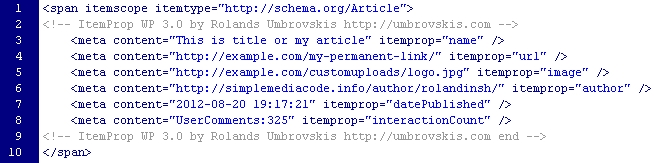
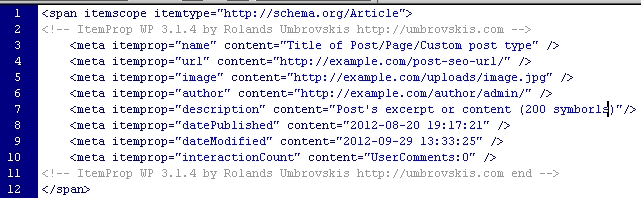
add: 3.2.0 new: admin options
git-svn-id: https://plugins.svn.wordpress.org/itempropwp/trunk@619636 b8457f37-d9ea-0310-8a92-e5e31aec5664

diff --git a/assets/css/itempropwp.css b/assets/css/itempropwp.css
@@ -1,0 +1,13 @@
+@charset "utf-8";
+/*
+ * itempropwp CSS
+ * @since 3.1.4.3
+ * @version 1.0
+*/
+.itempropwp-wrap{
+	padding:0;
+	margin:0;
+	overflow:hidden;
+	display:inline;
+}
+

diff --git a/itempropwp.php b/itempropwp.php
@@ -1,9 +1,9 @@
 <?php 
 /**
 Plugin Name: itemprop WP for SERP/SEO Rich snippets
-Plugin URI: http://simplemediacode.com/wordpress-pugins/itemprop-wp/?utm_source=wordpress&utm_medium=wpplugin&utm_campaign=itempropWP&utm_content=v-3.1.4.1-itempropWP_load_widgets
+Plugin URI: http://simplemediacode.com/wordpress-pugins/itemprop-wp/?utm_source=wordpress&utm_medium=wpplugin&utm_campaign=itempropWP&utm_content=v-3.2.0-itempropWP_load_widgets
 Description: Add human invisible schema.org itemprop code to images
-Version: 3.1.4.1
+Version: 3.2.0
 Requires at least: 3.3
 Tested up to: 3.5
 Author: Rolands Umbrovskis
@@ -14,11 +14,12 @@ License URI: http://simplemediacode.com/license/gpl/
 Copyright (C) 2008-2012, Rolands Umbrovskis - rolands@simplemediacode.com
 
  */
-	define('SMCIPWPV','3.1.4.1'); // location general @since 1.0
+	define('SMCIPWPV','3.2.0'); // location general @since 1.0
 	define('SMCIPWPM',dirname(__FILE__)); // location general @since 1.0
 	define('SMCIPWPF','itempropwp'); // location folder @since 1.0 
 	define('IPWPT',__('itemprop WP for SERP/SEO Rich snippets','itempropwp')); // Name @since 1.1
 	define('SMCIPWPURL', plugin_dir_url(__FILE__)); // Plugin URI @since 1.0
+	define('SMCIPWPDIR',dirname( plugin_basename( __FILE__ ) ));/* @since 3.2.0 */
 	$smcipwp_url = SMCIPWPURL; // @since 3.1 Use of undefined constant SMCIPWPURL - assumed 'SMCIPWPURL' in 
 	$smcipwp_f = SMCIPWPF; // @since 3.1 Use of undefined constant SMCIPWPF - assumed 'SMCIPWPF' in 
 	
@@ -58,10 +59,19 @@ new itempropwp;
 			if(is_admin()):
 				include_once(SMCIPWPM.'/admin/adminipwp.php');
 			endif;
+/*
+ * itempropwp CSS
+ * @since 3.2.0
+ * @version 1.0
+*/
+			if(!is_admin()):	
+				wp_register_style('itempropwp', SMCIPWPURL.'/assets/css/itempropwp.css', array(), SMCIPWPV, 'all');
+				wp_enqueue_style('itempropwp');
+			endif;
 		} 
 		// Initialize
 		public function init() {
-			load_plugin_textdomain( 'itempropwp', false, dirname( plugin_basename( __FILE__ ) ). '/lang/');
+			load_plugin_textdomain( 'itempropwp', false, SMCIPWPDIR. '/lang/');
 			add_filter('the_content', array( 'itempropwp', 'ipwp_the_content_filter' ), 10, 2 ); // Adding context @since 3.0
 			
 		}
@@ -151,7 +161,7 @@ new itempropwp;
 				}
 
 				$content = $content.'
-<span itemscope itemtype="http://schema.org/Article">
+<span itemscope itemtype="http://schema.org/Article" class="itempropwp-wrap">
 <!-- ItemProp WP '.SMCIPWPV.' by Rolands Umbrovskis http://umbrovskis.com -->
 	<meta itemprop="name" content="'.esc_attr($thisipwp_post->post_title).'" />
 	<meta itemprop="url" content="'.esc_url(get_permalink()).'" />'

diff --git a/admin/adminipwp.php b/admin/adminipwp.php
@@ -2,21 +2,21 @@
 /*
  * itempropwp Admin interface
  * @since 3.1.4
- * @version 1.0
+ * @version 1.1.0
 */
 add_action('admin_menu', 'smc_ipwp_admin_menu');
 
 function smc_ipwp_admin_menu() {
 	//create new top-level menu
-	add_menu_page(__('itemprop WP for SERP/SEO Rich snippets','itempropwp'), __('itemprop WP','itempropwp'), 'activate_plugins', 'smcipwp_menu', 'smcipwp_settings');
+	add_menu_page(__('itemprop WP for SERP/SEO Rich snippets','itempropwp'), __('itemprop WP','itempropwp'), 'activate_plugins', 'smcipwp_menu', 'smcipwp_settings',SMCIPWPURL.'assets/img/itempropwp-icon-small.jpg');
 	//add_submenu_page( 'smcipwp_menu', __('Help','itempropwp'), __('Help','itempropwp'), 'edit_posts', 'smcipwphelp', 'smcipwp_help');
 	register_setting( 'smcipwp-settings', 'smcipwp_maxlenght' );
 	register_setting( 'smcipwp-settings', 'smcipwp_showcommcount' );
 	register_setting( 'smcipwp-settings', 'smcipwp_datemodified' );
-
+	register_setting( 'smcipwp-settings', 'smcipwp_perpostopt' ); /* Per post options @since 1.5.0 */
 }
 
-function smcipwp_settings(){ ?><div class="wrap"><div class="icon32" id="icon-tools"><br /></div>
+function smcipwp_settings(){ ?><div class="wrap"><img src="<?php echo SMCIPWPURL;?>assets/img/itempropwp-icon-64.jpg" alt="itempropWP" style="float: left; display:inline; margin-right:10px;" />
 	<h2><?php _e('Settings');?></h2>
 	<form method="post" action="options.php">
 <?php 
@@ -26,6 +26,7 @@ settings_fields( 'smcipwp-settings' );
 $smcipwp_maxlenght = get_option('smcipwp_maxlenght');
 $smcipwp_showcommcount = get_option('smcipwp_showcommcount');
 $smcipwp_datemodified = get_option('smcipwp_datemodified');
+$smcipwp_perpostopt=  get_option('smcipwp_perpostopt'); /* Per post options @since 1.5.0 */
 
 if(!$smcipwp_maxlenght||$smcipwp_maxlenght==''){
 	$smcipwp_maxlenght = '170'; /* well, we need some value anyway */
@@ -45,6 +46,18 @@ if(!$smcipwp_maxlenght||$smcipwp_maxlenght==''){
 		<th valign="top"><?php _e('Show dateModified?','itempropwp');?></th>
 		<td valign="top"><input type="checkbox" id="smcipwp_datemodified" name="smcipwp_datemodified" <?php checked($smcipwp_datemodified,'on') ?> /></td>
 	</tr>
+<?php 
+/* 
+Per post options 
+@since 1.5.0 
+*/
+?>
+<!-- 
+	<tr>
+		<th valign="top"><?php _e('Per post options','itempropwp');?></th>
+		<td valign="top"><input type="checkbox" id="smcipwp_perpostopt" name="smcipwp_perpostopt" <?php checked($smcipwp_perpostopt,'on') ?> /></td>
+	</tr>
+-->
  </table>
     <p class="submit"><input type="submit" class="button-primary" value="<?php _e('Save Changes','itempropwp') ?>" /></p>
 </form>
